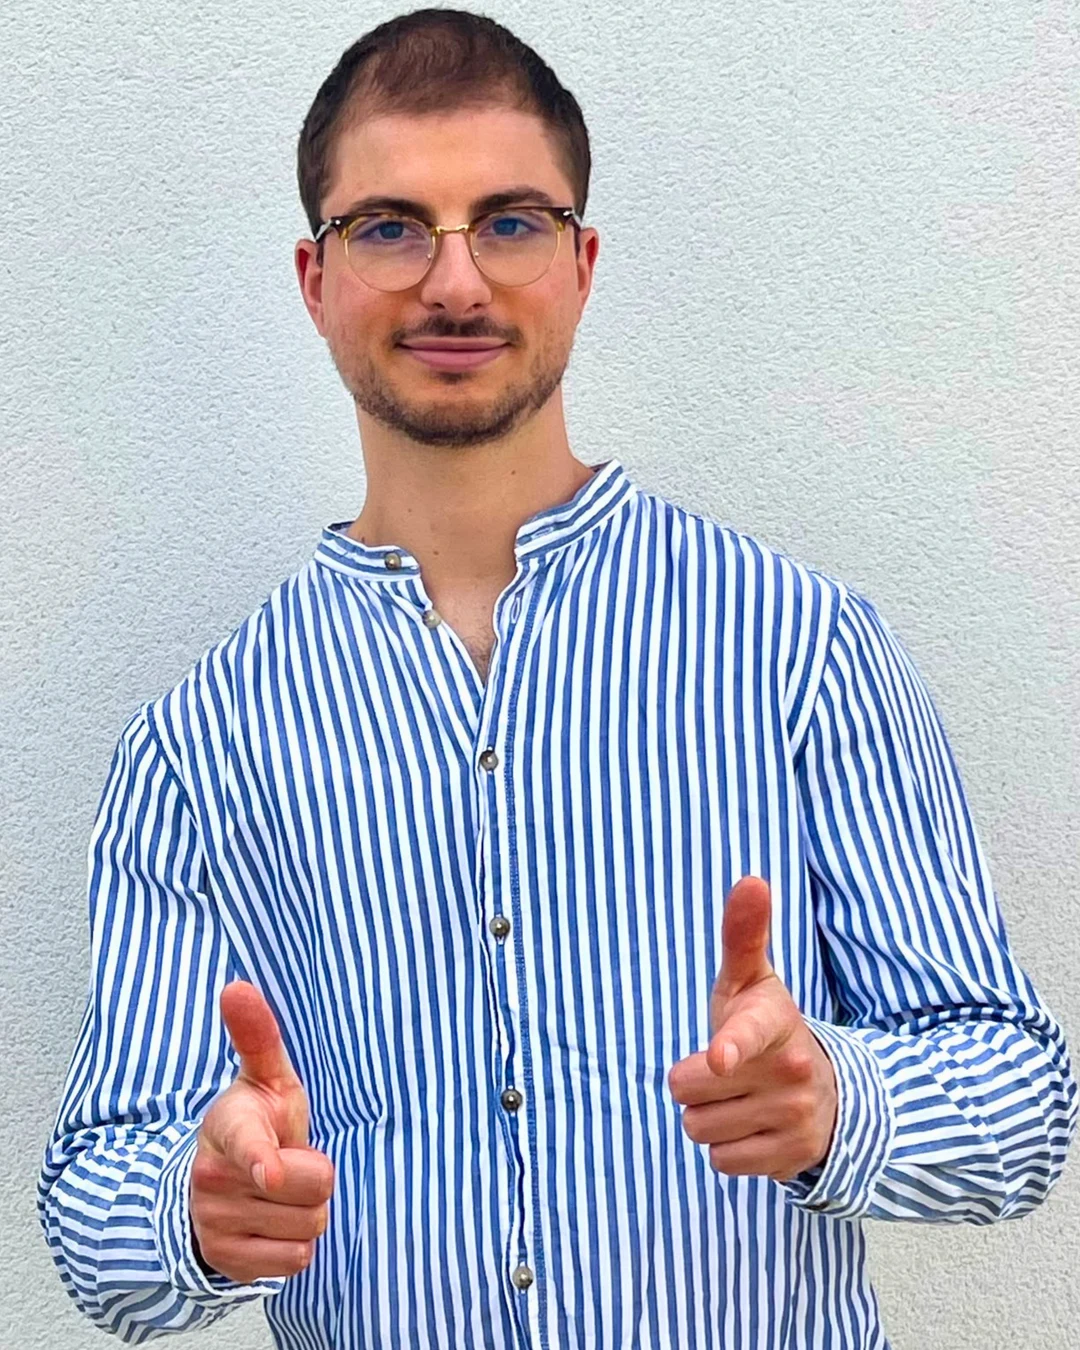
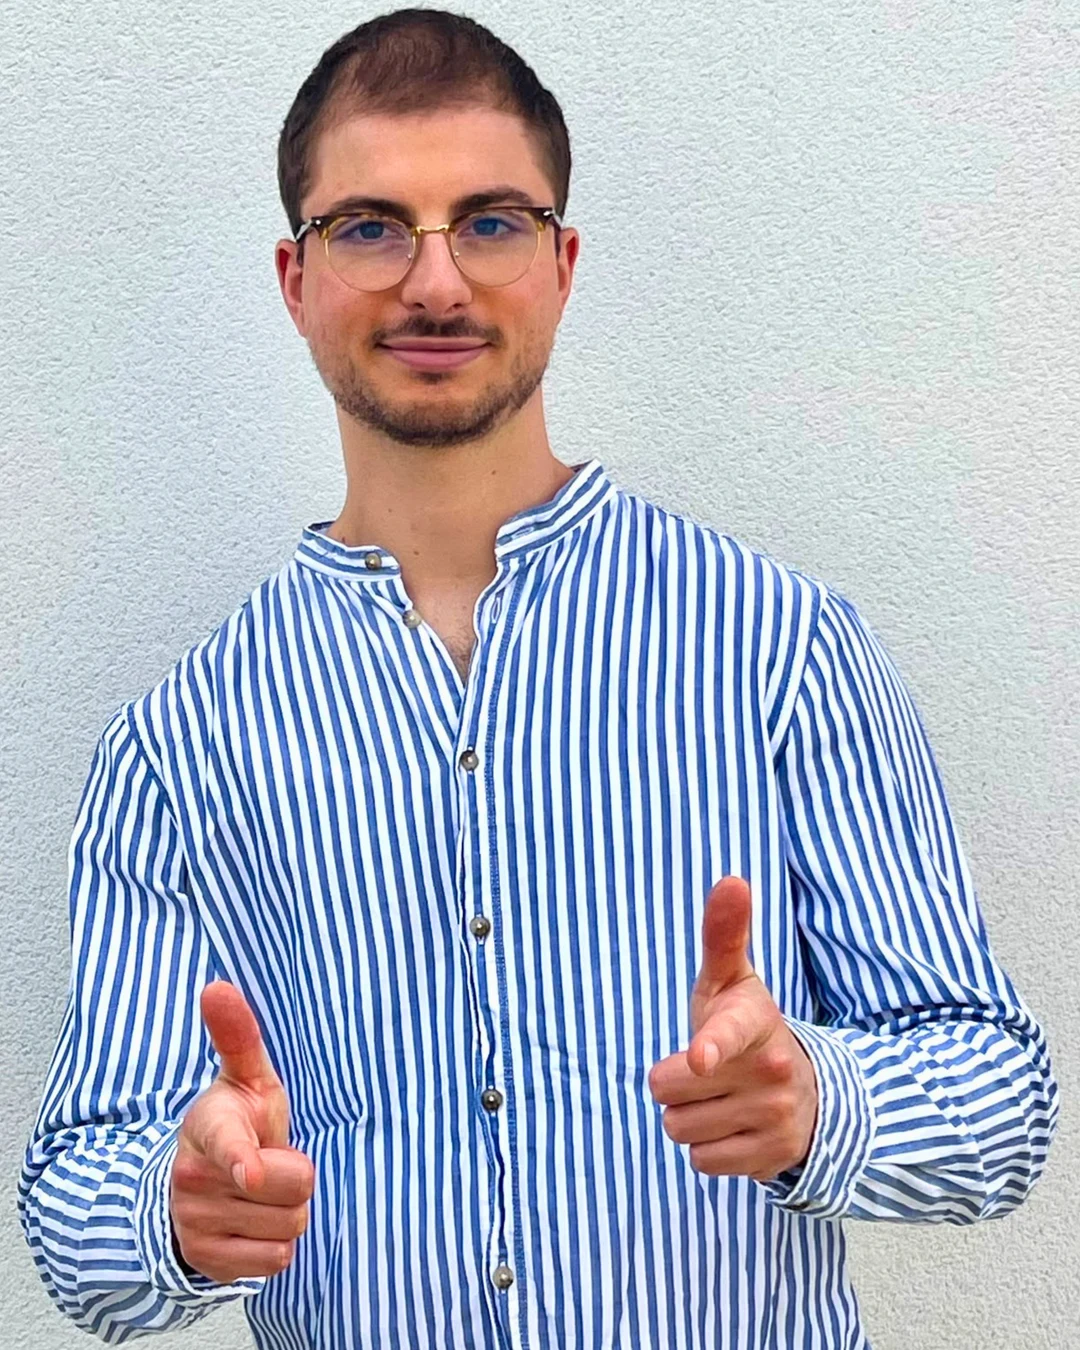
Mon histoire : photo recentrée

diff --git a/reserve-ton-appel/index.html b/reserve-ton-appel/index.html
@@ -14,18 +14,18 @@
 <meta name="theme-color" content="#D6EEFB">
 <meta name="color-scheme" content="only light">
 <meta name="darkreader-lock">
-<link rel="icon" type="image/png" sizes="32x32" href="/img/favicon-32.png?v=202611102122">
-<link rel="icon" type="image/png" sizes="64x64" href="/img/favicon-64.png?v=202611102122">
-<link rel="apple-touch-icon" href="/img/apple-touch-icon.png?v=202611102122">
+<link rel="icon" type="image/png" sizes="32x32" href="/img/favicon-32.png?v=202611102125">
+<link rel="icon" type="image/png" sizes="64x64" href="/img/favicon-64.png?v=202611102125">
+<link rel="apple-touch-icon" href="/img/apple-touch-icon.png?v=202611102125">
 <link rel="preload" href="/fonts/fraunces-latin-opsz-normal.woff2" as="font" type="font/woff2" crossorigin>
 <link rel="preload" href="/fonts/dm-sans-latin-opsz-normal.woff2" as="font" type="font/woff2" crossorigin>
-<link rel="stylesheet" href="/css/style.css?v=202611102122">
+<link rel="stylesheet" href="/css/style.css?v=202611102125">
 </head>
 <body>
 <main class="page">
   <header class="entete">
-    <img class="logo" src="/img/logo-VA-180px.png?v=202611102122" width="40" height="40" alt="Logo VA de Victor Amilien">
-    <div class="photo petite"><img src="/img/jean-rond.webp?v=202611102122" width="500" height="500" alt="Victor Amilien, en chemise en jean, sourit"></div>
+    <img class="logo" src="/img/logo-VA-180px.png?v=202611102125" width="40" height="40" alt="Logo VA de Victor Amilien">
+    <div class="photo petite"><img src="/img/jean-rond.webp?v=202611102125" width="500" height="500" alt="Victor Amilien, en chemise en jean, sourit"></div>
     <h1>Réserve ton appel</h1>
     <p class="intro">Merci pour tes réponses, c'est noté&nbsp;😊</p>
     <p class="intro">Dernière étape&nbsp;: je t'invite à choisir le moment qui te convient pour notre appel. C'est une vingtaine de minutes au téléphone, pour en savoir un peu plus sur toi et sur tes motivations, et voir ensemble comment t'aider à y arriver&nbsp;✨</p>
@@ -46,7 +46,7 @@
     </nav>
   </footer>
 </main>
-<script src="/js/cal.js?v=202611102122"></script>
+<script src="/js/cal.js?v=202611102125"></script>
 <script>
   calendrierVictor("cal-appel", "victoramilien/appel-decouverte");
 </script>

diff --git a/reserve-ta-consultation/index.html b/reserve-ta-consultation/index.html
@@ -8,18 +8,18 @@
 <meta name="theme-color" content="#D6EEFB">
 <meta name="color-scheme" content="only light">
 <meta name="darkreader-lock">
-<link rel="icon" type="image/png" sizes="32x32" href="/img/favicon-32.png?v=202611102122">
-<link rel="icon" type="image/png" sizes="64x64" href="/img/favicon-64.png?v=202611102122">
-<link rel="apple-touch-icon" href="/img/apple-touch-icon.png?v=202611102122">
+<link rel="icon" type="image/png" sizes="32x32" href="/img/favicon-32.png?v=202611102125">
+<link rel="icon" type="image/png" sizes="64x64" href="/img/favicon-64.png?v=202611102125">
+<link rel="apple-touch-icon" href="/img/apple-touch-icon.png?v=202611102125">
 <link rel="preload" href="/fonts/fraunces-latin-opsz-normal.woff2" as="font" type="font/woff2" crossorigin>
 <link rel="preload" href="/fonts/dm-sans-latin-opsz-normal.woff2" as="font" type="font/woff2" crossorigin>
-<link rel="stylesheet" href="/css/style.css?v=202611102122">
+<link rel="stylesheet" href="/css/style.css?v=202611102125">
 </head>
 <body>
 <main class="page">
   <header class="entete">
-    <img class="logo" src="/img/logo-VA-180px.png?v=202611102122" width="40" height="40" alt="Logo VA de Victor Amilien">
-    <div class="photo petite"><img src="/img/blanche-rond.webp?v=202611102122" width="500" height="500" alt="Victor Amilien, en chemise blanche, avec un grand sourire"></div>
+    <img class="logo" src="/img/logo-VA-180px.png?v=202611102125" width="40" height="40" alt="Logo VA de Victor Amilien">
+    <div class="photo petite"><img src="/img/blanche-rond.webp?v=202611102125" width="500" height="500" alt="Victor Amilien, en chemise blanche, avec un grand sourire"></div>
     <h1>Réserve ta consultation</h1>
     <p class="intro">Tout est bon de ton côté, on peut commencer&nbsp;😊</p>
     <p class="intro">Choisis le moment de ta consultation de démarrage&nbsp;: jusqu'à 1&nbsp;h&nbsp;15 rien que pour toi, pour apprendre à te connaître et voir ensemble par où commencer&nbsp;✨</p>
@@ -39,7 +39,7 @@
     </nav>
   </footer>
 </main>
-<script src="/js/cal.js?v=202611102122"></script>
+<script src="/js/cal.js?v=202611102125"></script>
 <script>
   calendrierVictor("cal-consultation", "victoramilien/consultation-de-demarrage");
 </script>

diff --git a/index.html b/index.html
@@ -18,18 +18,18 @@
 <meta name="theme-color" content="#D6EEFB">
 <meta name="color-scheme" content="only light">
 <meta name="darkreader-lock">
-<link rel="icon" type="image/png" sizes="32x32" href="/img/favicon-32.png?v=202611102122">
-<link rel="icon" type="image/png" sizes="64x64" href="/img/favicon-64.png?v=202611102122">
-<link rel="apple-touch-icon" href="/img/apple-touch-icon.png?v=202611102122">
+<link rel="icon" type="image/png" sizes="32x32" href="/img/favicon-32.png?v=202611102125">
+<link rel="icon" type="image/png" sizes="64x64" href="/img/favicon-64.png?v=202611102125">
+<link rel="apple-touch-icon" href="/img/apple-touch-icon.png?v=202611102125">
 <link rel="preload" href="/fonts/fraunces-latin-opsz-normal.woff2" as="font" type="font/woff2" crossorigin>
 <link rel="preload" href="/fonts/dm-sans-latin-opsz-normal.woff2" as="font" type="font/woff2" crossorigin>
-<link rel="stylesheet" href="/css/style.css?v=202611102122">
+<link rel="stylesheet" href="/css/style.css?v=202611102125">
 </head>
 <body>
 <main class="page">
   <header class="entete">
-    <img class="logo" src="/img/logo-VA-180px.png?v=202611102122" width="40" height="40" alt="Logo VA de Victor Amilien">
-    <div class="portrait"><img src="/img/portrait-carreaux-finale.webp?v=202611102122" width="1080" height="1350" alt="Victor Amilien, en chemise à carreaux, sourit"></div>
+    <img class="logo" src="/img/logo-VA-180px.png?v=202611102125" width="40" height="40" alt="Logo VA de Victor Amilien">
+    <div class="portrait"><img src="/img/portrait-carreaux-finale.webp?v=202611102125" width="1080" height="1350" alt="Victor Amilien, en chemise à carreaux, sourit"></div>
     <h1>Victor Amilien</h1>
     <p class="desc">Coach nutrition &amp; sport</p>
     <p class="intro">Moi, c'est Victor. Le sport et la nutrition m'ont fait comprendre une chose&nbsp;: prendre soin de soi, un peu chaque jour, c'est apprendre à se regarder avec plus de <em>douceur</em>. Aujourd'hui, je construis avec toi un coaching qui te ressemble&nbsp;: il part de ton quotidien et avance à ton rythme.</p>

diff --git a/mon-histoire/index.html b/mon-histoire/index.html
@@ -14,18 +14,18 @@
 <meta name="theme-color" content="#D6EEFB">
 <meta name="color-scheme" content="only light">
 <meta name="darkreader-lock">
-<link rel="icon" type="image/png" sizes="32x32" href="/img/favicon-32.png?v=202611102122">
-<link rel="icon" type="image/png" sizes="64x64" href="/img/favicon-64.png?v=202611102122">
-<link rel="apple-touch-icon" href="/img/apple-touch-icon.png?v=202611102122">
+<link rel="icon" type="image/png" sizes="32x32" href="/img/favicon-32.png?v=202611102125">
+<link rel="icon" type="image/png" sizes="64x64" href="/img/favicon-64.png?v=202611102125">
+<link rel="apple-touch-icon" href="/img/apple-touch-icon.png?v=202611102125">
 <link rel="preload" href="/fonts/fraunces-latin-opsz-normal.woff2" as="font" type="font/woff2" crossorigin>
 <link rel="preload" href="/fonts/dm-sans-latin-opsz-normal.woff2" as="font" type="font/woff2" crossorigin>
-<link rel="stylesheet" href="/css/style.css?v=202611102122">
+<link rel="stylesheet" href="/css/style.css?v=202611102125">
 </head>
 <body>
 <main class="page">
   <header class="entete">
-    <a href="/" aria-label="Accueil, Victor Amilien"><img class="logo" src="/img/logo-VA-180px.png?v=202611102122" width="40" height="40" alt="Logo VA de Victor Amilien"></a>
-    <div class="portrait"><img src="/img/portrait-dehors.webp?v=202611102122" width="1080" height="1350" alt="Victor Amilien, en chemise rayée bleue et blanche, pointe les deux index vers toi"></div>
+    <a href="/" aria-label="Accueil, Victor Amilien"><img class="logo" src="/img/logo-VA-180px.png?v=202611102125" width="40" height="40" alt="Logo VA de Victor Amilien"></a>
+    <div class="portrait"><img src="/img/portrait-dehors.webp?v=202611102125" width="1080" height="1350" alt="Victor Amilien, en chemise rayée bleue et blanche, pointe les deux index vers toi"></div>
     <h1>Mon histoire</h1>
   </header>
 

diff --git a/renoncer-au-contrat/index.html b/renoncer-au-contrat/index.html
@@ -9,16 +9,16 @@
 <meta name="theme-color" content="#D6EEFB">
 <meta name="color-scheme" content="only light">
 <meta name="darkreader-lock">
-<link rel="icon" type="image/png" sizes="32x32" href="/img/favicon-32.png?v=202611102122">
-<link rel="icon" type="image/png" sizes="64x64" href="/img/favicon-64.png?v=202611102122">
-<link rel="apple-touch-icon" href="/img/apple-touch-icon.png?v=202611102122">
+<link rel="icon" type="image/png" sizes="32x32" href="/img/favicon-32.png?v=202611102125">
+<link rel="icon" type="image/png" sizes="64x64" href="/img/favicon-64.png?v=202611102125">
+<link rel="apple-touch-icon" href="/img/apple-touch-icon.png?v=202611102125">
 <link rel="preload" href="/fonts/fraunces-latin-opsz-normal.woff2" as="font" type="font/woff2" crossorigin>
 <link rel="preload" href="/fonts/dm-sans-latin-opsz-normal.woff2" as="font" type="font/woff2" crossorigin>
-<link rel="stylesheet" href="/css/style.css?v=202611102122">
+<link rel="stylesheet" href="/css/style.css?v=202611102125">
 </head>
 <body>
 <main class="page">
-  <a href="/" aria-label="Accueil, Victor Amilien"><img class="logo" src="/img/logo-VA-180px.png?v=202611102122" width="40" height="40" alt="Logo VA de Victor Amilien"></a>
+  <a href="/" aria-label="Accueil, Victor Amilien"><img class="logo" src="/img/logo-VA-180px.png?v=202611102125" width="40" height="40" alt="Logo VA de Victor Amilien"></a>
   <article class="legal">
     <h1>Renoncer au contrat</h1>
     <p>Tu as changé d'avis&nbsp;? Aucun souci. Tu as 14&nbsp;jours à partir de ta commande pour te rétracter, sans avoir à te justifier.</p>
@@ -72,6 +72,6 @@
     </nav>
   </footer>
 </main>
-<script src="/js/retractation.js?v=202611102122"></script>
+<script src="/js/retractation.js?v=202611102125"></script>
 </body>
 </html>

diff --git a/resilier-mon-abonnement/index.html b/resilier-mon-abonnement/index.html
@@ -9,16 +9,16 @@
 <meta name="theme-color" content="#D6EEFB">
 <meta name="color-scheme" content="only light">
 <meta name="darkreader-lock">
-<link rel="icon" type="image/png" sizes="32x32" href="/img/favicon-32.png?v=202611102122">
-<link rel="icon" type="image/png" sizes="64x64" href="/img/favicon-64.png?v=202611102122">
-<link rel="apple-touch-icon" href="/img/apple-touch-icon.png?v=202611102122">
+<link rel="icon" type="image/png" sizes="32x32" href="/img/favicon-32.png?v=202611102125">
+<link rel="icon" type="image/png" sizes="64x64" href="/img/favicon-64.png?v=202611102125">
+<link rel="apple-touch-icon" href="/img/apple-touch-icon.png?v=202611102125">
 <link rel="preload" href="/fonts/fraunces-latin-opsz-normal.woff2" as="font" type="font/woff2" crossorigin>
 <link rel="preload" href="/fonts/dm-sans-latin-opsz-normal.woff2" as="font" type="font/woff2" crossorigin>
-<link rel="stylesheet" href="/css/style.css?v=202611102122">
+<link rel="stylesheet" href="/css/style.css?v=202611102125">
 </head>
 <body>
 <main class="page">
-  <a href="/" aria-label="Accueil, Victor Amilien"><img class="logo" src="/img/logo-VA-180px.png?v=202611102122" width="40" height="40" alt="Logo VA de Victor Amilien"></a>
+  <a href="/" aria-label="Accueil, Victor Amilien"><img class="logo" src="/img/logo-VA-180px.png?v=202611102125" width="40" height="40" alt="Logo VA de Victor Amilien"></a>
   <article class="legal">
     <h1>Résilier mon abonnement</h1>
     <p>Tu peux arrêter ton accompagnement en ligne, en quelques clics, depuis ton espace de paiement sécurisé Stripe. Aucun compte à créer&nbsp;: il suffit d'indiquer l'adresse e-mail utilisée pour ton paiement.</p>

diff --git a/cgv/index.html b/cgv/index.html
@@ -9,16 +9,16 @@
 <meta name="theme-color" content="#D6EEFB">
 <meta name="color-scheme" content="only light">
 <meta name="darkreader-lock">
-<link rel="icon" type="image/png" sizes="32x32" href="/img/favicon-32.png?v=202611102122">
-<link rel="icon" type="image/png" sizes="64x64" href="/img/favicon-64.png?v=202611102122">
-<link rel="apple-touch-icon" href="/img/apple-touch-icon.png?v=202611102122">
+<link rel="icon" type="image/png" sizes="32x32" href="/img/favicon-32.png?v=202611102125">
+<link rel="icon" type="image/png" sizes="64x64" href="/img/favicon-64.png?v=202611102125">
+<link rel="apple-touch-icon" href="/img/apple-touch-icon.png?v=202611102125">
 <link rel="preload" href="/fonts/fraunces-latin-opsz-normal.woff2" as="font" type="font/woff2" crossorigin>
 <link rel="preload" href="/fonts/dm-sans-latin-opsz-normal.woff2" as="font" type="font/woff2" crossorigin>
-<link rel="stylesheet" href="/css/style.css?v=202611102122">
+<link rel="stylesheet" href="/css/style.css?v=202611102125">
 </head>
 <body>
 <main class="page large">
-  <a href="/" aria-label="Accueil, Victor Amilien"><img class="logo" src="/img/logo-VA-180px.png?v=202611102122" width="40" height="40" alt="Logo VA de Victor Amilien"></a>
+  <a href="/" aria-label="Accueil, Victor Amilien"><img class="logo" src="/img/logo-VA-180px.png?v=202611102125" width="40" height="40" alt="Logo VA de Victor Amilien"></a>
   <article class="legal">
 <h1>Conditions générales de vente</h1>
 <p class="sous-titre">Victor Amilien, Coach nutrition &amp; sport — version du 9 novembre 2026</p>

diff --git a/politique-de-confidentialite/index.html b/politique-de-confidentialite/index.html
@@ -9,16 +9,16 @@
 <meta name="theme-color" content="#D6EEFB">
 <meta name="color-scheme" content="only light">
 <meta name="darkreader-lock">
-<link rel="icon" type="image/png" sizes="32x32" href="/img/favicon-32.png?v=202611102122">
-<link rel="icon" type="image/png" sizes="64x64" href="/img/favicon-64.png?v=202611102122">
-<link rel="apple-touch-icon" href="/img/apple-touch-icon.png?v=202611102122">
+<link rel="icon" type="image/png" sizes="32x32" href="/img/favicon-32.png?v=202611102125">
+<link rel="icon" type="image/png" sizes="64x64" href="/img/favicon-64.png?v=202611102125">
+<link rel="apple-touch-icon" href="/img/apple-touch-icon.png?v=202611102125">
 <link rel="preload" href="/fonts/fraunces-latin-opsz-normal.woff2" as="font" type="font/woff2" crossorigin>
 <link rel="preload" href="/fonts/dm-sans-latin-opsz-normal.woff2" as="font" type="font/woff2" crossorigin>
-<link rel="stylesheet" href="/css/style.css?v=202611102122">
+<link rel="stylesheet" href="/css/style.css?v=202611102125">
 </head>
 <body>
 <main class="page large">
-  <a href="/" aria-label="Accueil, Victor Amilien"><img class="logo" src="/img/logo-VA-180px.png?v=202611102122" width="40" height="40" alt="Logo VA de Victor Amilien"></a>
+  <a href="/" aria-label="Accueil, Victor Amilien"><img class="logo" src="/img/logo-VA-180px.png?v=202611102125" width="40" height="40" alt="Logo VA de Victor Amilien"></a>
   <article class="legal">
 <h1>Politique de confidentialité</h1>
 <p class="sous-titre">Victor Amilien, Coach nutrition &amp; sport — version du 9 novembre 2026</p>

diff --git a/mentions-legales/index.html b/mentions-legales/index.html
@@ -9,16 +9,16 @@
 <meta name="theme-color" content="#D6EEFB">
 <meta name="color-scheme" content="only light">
 <meta name="darkreader-lock">
-<link rel="icon" type="image/png" sizes="32x32" href="/img/favicon-32.png?v=202611102122">
-<link rel="icon" type="image/png" sizes="64x64" href="/img/favicon-64.png?v=202611102122">
-<link rel="apple-touch-icon" href="/img/apple-touch-icon.png?v=202611102122">
+<link rel="icon" type="image/png" sizes="32x32" href="/img/favicon-32.png?v=202611102125">
+<link rel="icon" type="image/png" sizes="64x64" href="/img/favicon-64.png?v=202611102125">
+<link rel="apple-touch-icon" href="/img/apple-touch-icon.png?v=202611102125">
 <link rel="preload" href="/fonts/fraunces-latin-opsz-normal.woff2" as="font" type="font/woff2" crossorigin>
 <link rel="preload" href="/fonts/dm-sans-latin-opsz-normal.woff2" as="font" type="font/woff2" crossorigin>
-<link rel="stylesheet" href="/css/style.css?v=202611102122">
+<link rel="stylesheet" href="/css/style.css?v=202611102125">
 </head>
 <body>
 <main class="page large">
-  <a href="/" aria-label="Accueil, Victor Amilien"><img class="logo" src="/img/logo-VA-180px.png?v=202611102122" width="40" height="40" alt="Logo VA de Victor Amilien"></a>
+  <a href="/" aria-label="Accueil, Victor Amilien"><img class="logo" src="/img/logo-VA-180px.png?v=202611102125" width="40" height="40" alt="Logo VA de Victor Amilien"></a>
   <article class="legal">
     <h1>Mentions légales</h1>
 

diff --git a/404.html b/404.html
@@ -7,13 +7,13 @@
 <meta name="darkreader-lock">
 <title>Page introuvable · Victor Amilien</title>
 <meta name="robots" content="noindex">
-<link rel="icon" type="image/png" sizes="32x32" href="/img/favicon-32.png?v=202611102122">
-<link rel="stylesheet" href="/css/style.css?v=202611102122">
+<link rel="icon" type="image/png" sizes="32x32" href="/img/favicon-32.png?v=202611102125">
+<link rel="stylesheet" href="/css/style.css?v=202611102125">
 </head>
 <body>
 <main class="page">
   <header class="entete">
-    <a href="/" aria-label="Accueil, Victor Amilien"><img class="logo" src="/img/logo-VA-180px.png?v=202611102122" width="40" height="40" alt="Logo VA de Victor Amilien"></a>
+    <a href="/" aria-label="Accueil, Victor Amilien"><img class="logo" src="/img/logo-VA-180px.png?v=202611102125" width="40" height="40" alt="Logo VA de Victor Amilien"></a>
     <h1>Oups, cette page s'est perdue&nbsp;😊</h1>
     <p class="intro">Tout le reste est juste ici&nbsp;:</p>
   </header>
